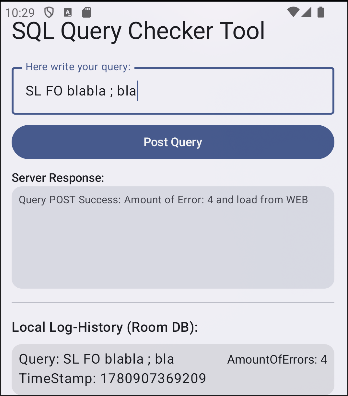
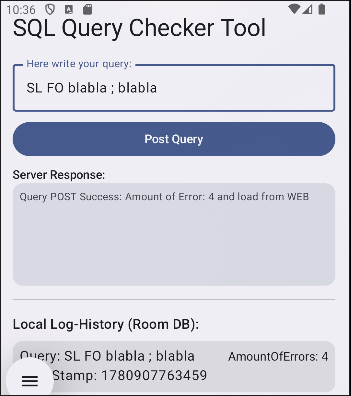
somethign

diff --git a/SQLValidator/app/src/main/java/at/ac/htl_leonding/sql_validator/data/repository/AppRepository.kt b/SQLValidator/app/src/main/java/at/ac/htl_leonding/sql_validator/data/repository/AppRepository.kt
@@ -18,10 +18,6 @@ class AppRepository(
             val queriesFromDatabase = logDao.getQueryByQuery(query);
             var loadFromString = "DB"
 
-            if (queriesFromDatabase.isEmpty()) {
-                loadFromString = "WEB"
-            }
-
             val response = apiService.executePostQuery(query)
             var responseString = response.string()
             var amountOfError = 0;
@@ -38,8 +34,11 @@ class AppRepository(
                 responseString = "JSON ERROR";
             }
 
+            if (queriesFromDatabase.isEmpty()) {
+                loadFromString = "WEB"
 
-            logDao.insertLog(SQLLogEntry(query = query, amountOfErrors = amountOfError))
+                logDao.insertLog(SQLLogEntry(query = query, amountOfErrors = amountOfError))
+            }
 
             "Query POST Success: $responseString and load from $loadFromString"
         } catch (e: Exception) {

diff --git a/SQLValidator/DOCUMENTATION.md b/SQLValidator/DOCUMENTATION.md
@@ -6,7 +6,7 @@ Tested: `SELECT * FROM DB;`
 
 ## Second Test with same Query should return "from DB"
 Tested: `SELECT * FROM DB;`
-![db](./imgs/db.png.png)
+![db](./imgs/db.png)
 
 ## Third Test with same Query but different casing return "from DB"
 Tested: `seLecT * fRoM db;`
@@ -21,5 +21,6 @@ Tested: `SL FO blabla ; bla`
 ![more errors](./imgs/more.png)
 
 ## Sixth Test with more than 1 error again
-Tested: `SL FO blabla ; bla`
-![more errors with db](./imgs/dberrors.png)
+Tested: `SL FO blabla ; blabla`
+![more errors with db](./imgs/morewithoutEntry.png)
+